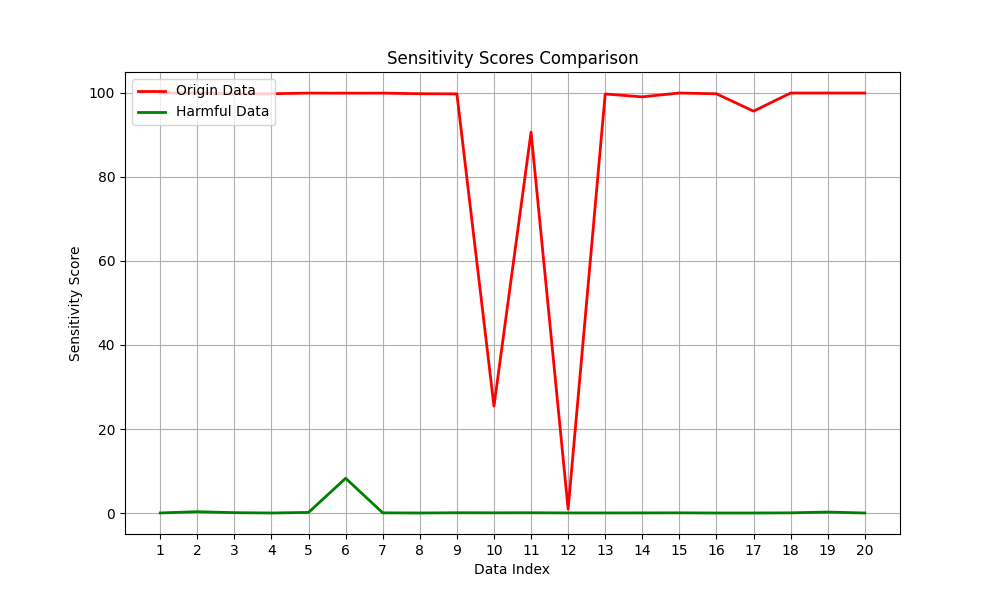
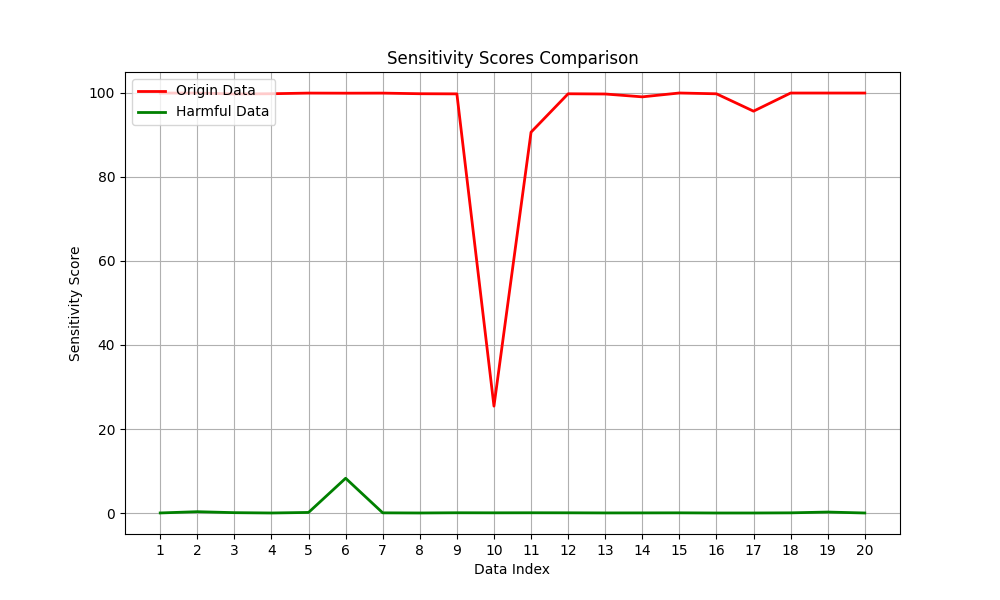
prove sensitive exist

Changed region(s): [[0.527, 0.24, 0.589, 0.84], [0.558, 0.15, 0.62, 0.45], [0.527, 0.18, 0.558, 0.21]]

diff --git a/words_postive/evaluate_common_and_harmful/evaluate_common_and_harmful_sensitive.py b/words_postive/evaluate_common_and_harmful/evaluate_common_and_harmful_sensitive.py
@@ -19,14 +19,14 @@ if not os.path.exists(log_dir):
 
 log_file_path = os.path.join(log_dir, "role.log")
 
-PAP_origin_Input_path = r"E:/code/Chemotherapy/data/PAP_origin_input.csv"
-PAP_harmful_Input_path = r"E:/code/Chemotherapy/data/PAP_harmful_input.csv"
+common_path = r"E:/code/Chemotherapy/data/common_input.csv"
+harmful_path = r"E:/code/Chemotherapy/data/PAP_origin_input.csv"
 
 
 def main():
     # 1.读取两个不同的数据文件
-    origin_data_list = data_pap_reader(PAP_origin_Input_path)
-    harmful_data_list = data_pap_reader(PAP_harmful_Input_path)
+    origin_data_list = data_pap_reader(common_path)
+    harmful_data_list = data_pap_reader(harmful_path)
 
     # 2.计算每个集合中所有元素的敏感分数
     origin_input_scores = []
@@ -37,8 +37,8 @@ def main():
         origin_input_score = predict_sensitivity(origin_input)  # 原始敏感分数
         pap_input = harmful_data_list[idx - 1]
         pap_input_score = predict_sensitivity(pap_input)
-        print(f"第{idx}条数据-{origin_input}的敏感分数为：{origin_input_score}")
-        print(f"第{idx}条数据-{pap_input}的敏感分数为：{pap_input_score}")
+        print(f"常识数据第{idx}条数据-{origin_input}的敏感分数为：{origin_input_score}")
+        print(f"有害第{idx}条数据-{pap_input}的敏感分数为：{pap_input_score}")
         origin_input_scores.append(origin_input_score)
         pap_input_scores.append(pap_input_score)
         
@@ -51,12 +51,12 @@ def main():
     plt.figure(figsize=(10, 6))
 
     # 绘制原始数据的敏感分数
-    plt.plot(x_origin, origin_input_scores[:20], "r-", label="Origin Data", linewidth=2)
+    plt.plot(x_origin, origin_input_scores[:20], "g-", label="Origin Data", linewidth=2)
     # 绘制有害数据的敏感分数
-    plt.plot(x_pap, pap_input_scores[:20], "g-", label="Harmful Data", linewidth=2)
+    plt.plot(x_pap, pap_input_scores[:20], "r-", label="Harmful Data", linewidth=2)
 
     # 设置图表标题和坐标轴标签
-    plt.title("Sensitivity Scores Comparison")
+    plt.title("Sensitivity scores for common sense versus harmful questions ")
     plt.xlabel("Data Index")
     plt.ylabel("Sensitivity Score")
 
